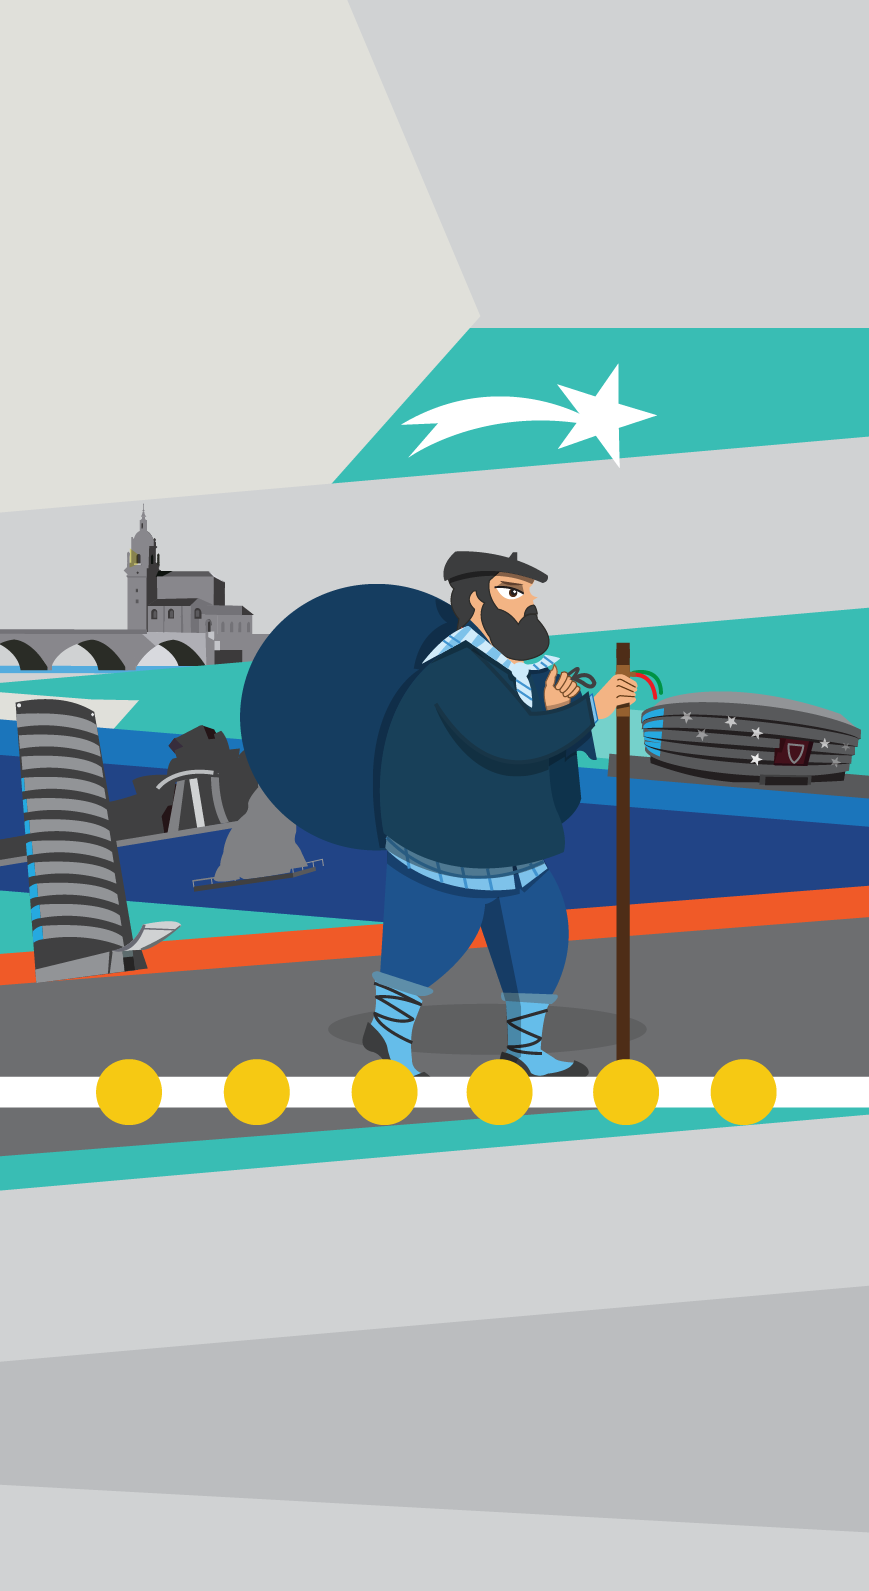
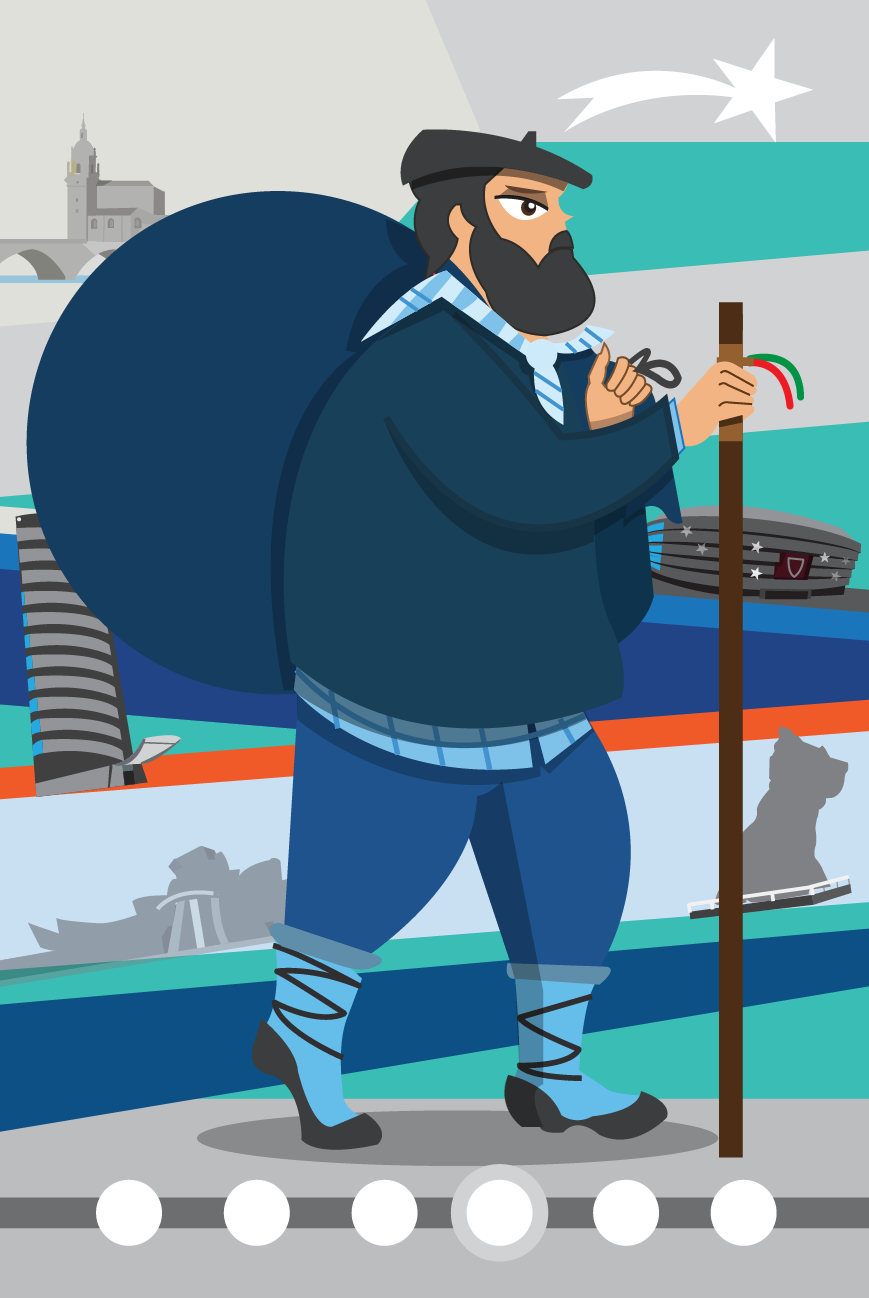
Nuevo olentzero y nuevo height en javascript para proyecto con jone: 700px

diff --git a/index.html b/index.html
@@ -48,7 +48,7 @@
           <h2>::Proyecto anterior:</h2>
         </article>
            <figure id="olentzero">
-            <!-- <img src="img/olentzero-01.png" alt=""> -->
+            <img src="img/olentzero-01.png" alt="">
           </figure>
           <h3 class="aumentar_el_padding">Olentzero Joan Zaigu. <span class="texto_reducir">Confirma fácilmente desde tu móvil que la carta ha llegado.</span></h3>
           <p class="links aumentar_el_padding"><a href="http://www.olentzero.online">www.olentzero.online</a></p>
@@ -110,10 +110,7 @@
           </figure>
           <!-- CAPA OCULTA CON MÁS INFORMACIÓN -->
           <article id="cartel-jone-info">
-            <figure>
-              <img src="img/juana1-01.png" alt="">
-            </figure>
-            <p>El espectáculo es una delicada mezcla entre un cabaret y una exhibición de cómo se levanta un botijo al estilo Iñaki Perurena.</p>
+            <p class="margin_top_eliminar">El espectáculo es una delicada mezcla entre un cabaret y una exhibición de cómo se levanta un botijo al estilo Iñaki Perurena.</p>
             <p>Lloras fijo porque las canciones son mayoritariamente de autores franceses y porque la cantante a mitad de espectáculo se come una cebolla en vivo.</p>
             <p>El repertorio de este musical —en gran parte hace un repaso a lo mejor de la música francesa—, es tan especial que si no fuera porque la cantante a ratos hace acrobacias moriríamos todos. Ella lo sabe. Y administra las canciones con sabiduría.</p>
             <figure>
@@ -124,7 +121,7 @@
             Un día se cayó a la ría, pero fue por bien.</p>
 
             <figure id="btn_ocultar_info_jone" class="ocultar_info">
-              <img class="mostrar_mano" src="img/ocultar_info.png" alt="" onclick="ocultar()">
+              <img class="mostrar_mano" src="img/ocultar_info.png" alt="" onclick="ocultar_descripcion()">
             </figure>
           </article>
         </section> <!-- fin de la sección otros1m -->

diff --git a/miJavascript.js b/miJavascript.js
@@ -18,7 +18,7 @@ var estado_logo = 1;
 function mostrar_proyecto_con_jone(){
   if (estado==1) {
     document.getElementById('ampliar').style.visibility = 'visible';
-    document.getElementById('proyecto_con_jone').style.height = '900px';
+    document.getElementById('proyecto_con_jone').style.height = '700px';
     document.getElementById('cartel-jone-info').style.height = '0px'; /*
     Inicializamos a 0 para evitar que al abrir por sengunda vez se vea
     el primero de los iconos */
@@ -50,9 +50,27 @@ function mostrar(){
 
 }
 
+/* Primer botón ocultar */
+
 function ocultar() {
 
     document.getElementById('proyecto_con_jone').style.height = '0px';
+    document.getElementById('cartel-jone-info').style.height = '0px';
+    document.getElementById('proyecto_con_jone').style.overflow = 'hidden';
+    document.getElementById('ampliar').style.visibility = 'visible';
+    document.getElementById('ampliar').style.height = '50px';
+    var icono=document.getElementById("ampliar_btn");
+    icono.src = "img/ampliar_info-oscuro-01.png";
+    estado = 1;
+    document.getElementById("ampliar-info").innerHTML=' ';
+
+}
+
+/* Segundo botón ocultar */
+
+function ocultar_descripcion() {
+
+    document.getElementById('proyecto_con_jone').style.height = '700px';
     document.getElementById('cartel-jone-info').style.height = '0px';
     document.getElementById('proyecto_con_jone').style.overflow = 'hidden';
     document.getElementById('ampliar').style.visibility = 'visible';

diff --git a/css/master.css b/css/master.css
@@ -88,7 +88,7 @@ p {
   width: 50%;
 }
 
-#actual, #anterior, #proyecto_con_jone {
+#actual, #proyecto_con_jone {
   padding: 0 3% 50px 3%;
 }
 
@@ -106,9 +106,8 @@ p {
 }
 
 #anterior {
-  background-color: white; /* #D0D3D4; */
-  background-image: url("../img/olentzero-01.png");
-  background-size: 100%;
+  background-color: #E0E0DA; /* #D0D3D4; */
+  background-image: url("../img/olentzero-02.png");
   background-repeat: no-repeat;
   color: #464747;
   height: auto;
@@ -121,7 +120,7 @@ p {
 }
 
 #anterior h2 {
-  height: 600px;
+
 }
 
 #anterior h2 {
@@ -174,7 +173,7 @@ p {
   background-color: white;
   height: 10px;
   overflow: hidden;
-  padding-top: 20px;
+  padding-top: 0px;
   text-align: left;
   transition-duration: 1s;
   width: 100%;
@@ -417,6 +416,10 @@ p {
 }
 
 .margin_bottom_eliminar {
+  margin-bottom: 0;
+}
+
+.padding_bottom_eliminar {
   padding-bottom: 0;
 }
 
